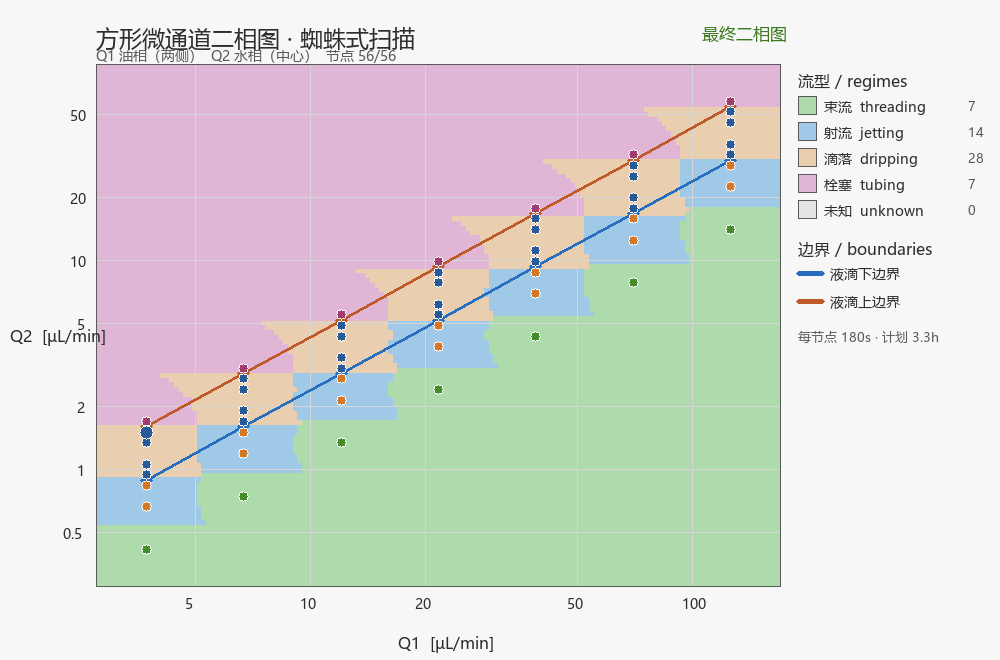
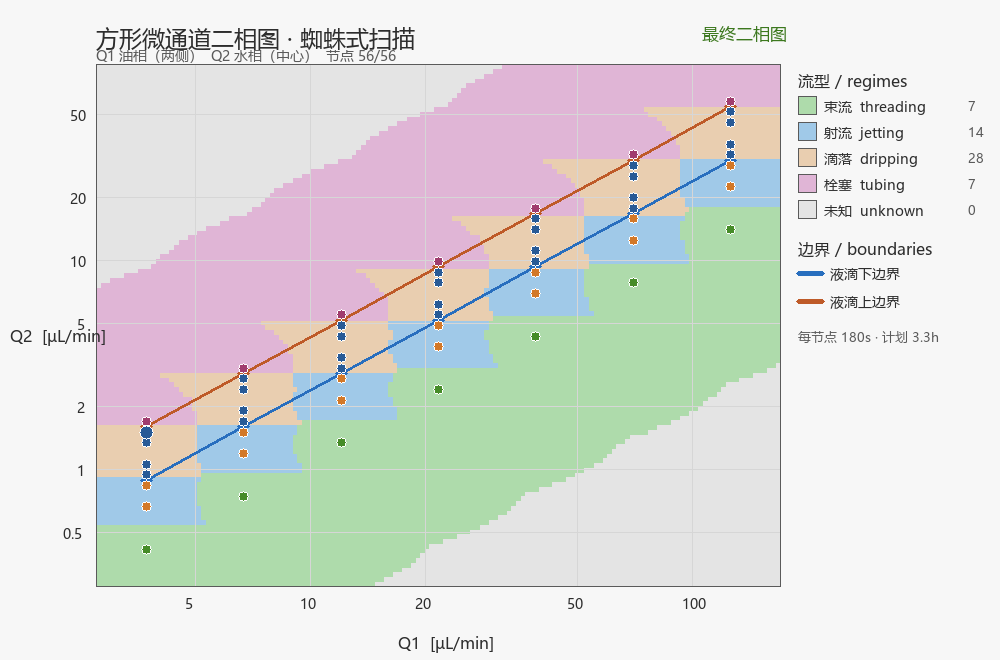
feat(animate): leave unmeasured area gray so the phase map visibly grows
Only fill Voronoi cells within MAX_FILL_DIST_LOG10 of a measured node; early frames now show the measured neighborhood instead of painting the whole plot with the first node's regime.

Changed region(s): [[0.372, 0.5455, 0.806, 0.9091], [0.093, 0.0909, 0.496, 0.4242]]

diff --git a/src/mcs_date/experiment/animate.py b/src/mcs_date/experiment/animate.py
@@ -47,6 +47,9 @@ BG_BGR = (247, 247, 247)
 PANEL_BGR = (255, 255, 255)
 TEXT_BGR = (45, 45, 45)
 GRID_BGR = (214, 214, 214)
+# 已测节点多远之外的区域不参与填充（log10 单位）；让动画开头保留“未测”底色，
+# 而不是把整个象限涂成第一个节点的流型。
+MAX_FILL_DIST_LOG10 = 0.55
 AXIS_BGR = (90, 90, 90)
 HIGHLIGHT_BGR = (20, 20, 20)
 
@@ -263,7 +266,13 @@ class DiagramRenderer:
         color_lut = np.array(
             [REGIME_COLORS_BGR[node.regime] for node in nodes], dtype=np.uint8
         )
-        flat = color_lut[labels]
+        flat = np.full(
+            (points.shape[0], 3),
+            REGIME_COLORS_BGR[FlowRegime.UNKNOWN],
+            dtype=np.uint8,
+        )
+        near = np.sqrt(best) <= MAX_FILL_DIST_LOG10
+        flat[near] = color_lut[labels[near]]
         return flat.reshape(rows, cols, 3)
 
     # -- 边界 ---------------------------------------------------------------
